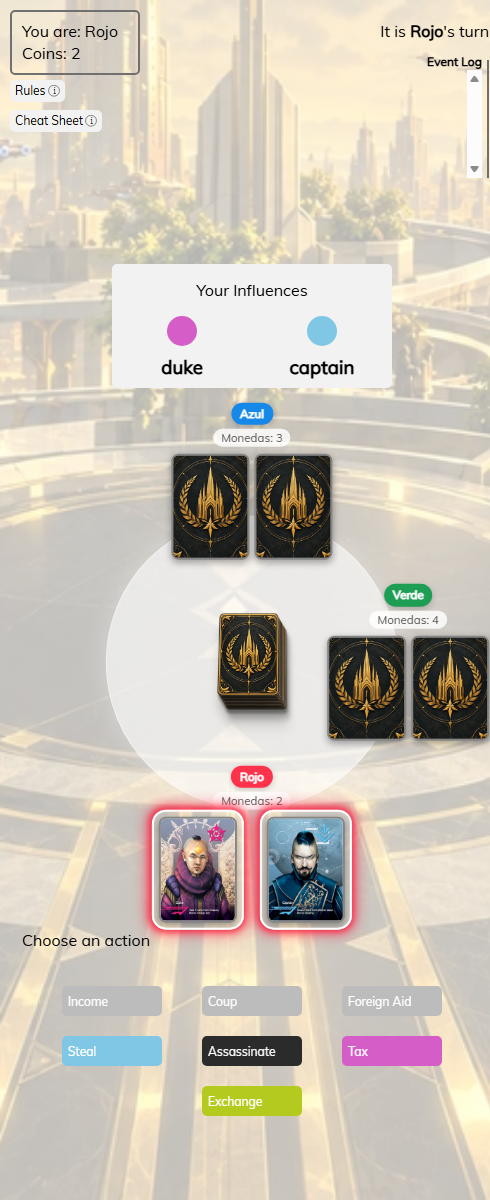
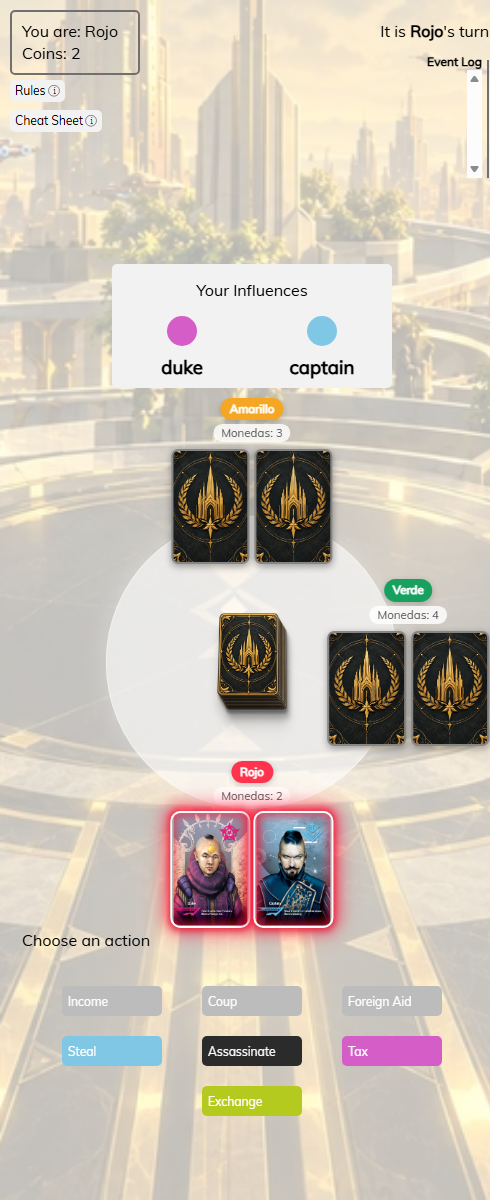
feat: refine current-turn card glow

Changed region(s): [[0.2755, 0.4625, 1.0, 0.8017], [0.3367, 0.3083, 0.6735, 0.4933]]

diff --git a/coup-client/src/components/game/PlayerBoardStyles.css b/coup-client/src/components/game/PlayerBoardStyles.css
@@ -103,7 +103,7 @@
 }
 
 .PlayerBoardSeat--current .PlayerBoardSeatInfluences {
-    gap: 30px;
+    gap: 5px;
 }
 
 .PlayerInfluenceSlot {
@@ -112,7 +112,7 @@
     flex: 0 0 auto;
     width: clamp(76px, 10.4vw, 134px);
     height: auto;
-    aspect-ratio: 0.74;
+    aspect-ratio: 0.68;
     box-sizing: border-box;
     align-items: center;
     justify-content: center;
@@ -161,16 +161,27 @@
     border-color: #858585;
 }
 
+.PlayerBoardSeat--current .PlayerInfluenceSlot:not(.PlayerInfluenceSlot--inactive)::before {
+    content: '';
+    position: absolute;
+    z-index: 1;
+    inset: 0;
+    border-radius: 5px;
+    box-shadow: inset 0 0 10px 2px rgba(255, 25, 48, 0.7);
+    pointer-events: none;
+}
+
 .PlayerBoardSeat--current .PlayerInfluenceSlot:not(.PlayerInfluenceSlot--inactive)::after {
     content: '';
     position: absolute;
-    z-index: 2;
-    inset: -9px;
+    z-index: 3;
+    inset: -3px;
     border: 2px solid rgba(255, 255, 255, 0.98);
-    border-radius: 14px;
+    border-radius: 10px;
     box-shadow:
-        0 0 6px 2px rgba(255, 35, 68, 0.88),
-        0 0 14px 5px rgba(255, 18, 55, 0.48);
+        0 0 6px 1px rgba(255, 35, 68, 0.9),
+        0 0 15px 4px rgba(255, 18, 55, 0.56),
+        0 0 25px 7px rgba(255, 18, 55, 0.22);
     pointer-events: none;
 }
 
@@ -209,5 +220,9 @@
 
     .PlayerBoardSeat[data-player-count="6"][data-seat-lower-side="true"] {
         translate: 0 -32px;
+    }
+
+    .PlayerBoardSeat[data-seat-upper-side="true"] {
+        translate: 0 -24px;
     }
 }

diff --git a/coup-client/src/components/game/PlayerBoard.js b/coup-client/src/components/game/PlayerBoard.js
@@ -107,6 +107,9 @@ export default function PlayerBoard(props) {
                     data-seat-lower-side={
                         seats.length >= 5 && top >= 60 && Math.abs(left - 50) >= 5 ? 'true' : undefined
                     }
+                    data-seat-upper-side={
+                        seats.length === 6 && top <= 40 && Math.abs(left - 50) >= 5 ? 'true' : undefined
+                    }
                     data-current-player={isCurrentPlayer ? 'true' : 'false'}
                     aria-current={isCurrentPlayer ? 'true' : undefined}
                     style={{

diff --git a/docs/plans/circular-board-visual-polish/report_issue_9_F1.md b/docs/plans/circular-board-visual-polish/report_issue_9_F1.md
@@ -6,8 +6,8 @@
 - El fondo usa `cover` centrado en una capa fija de viewport, sin deformación; la plataforma central del arte permanece reconocible y la imagen también aparece en las franjas superior e inferior de la página. Añadí un disco blanco translúcido centrado detrás del mazo.
 - Corrección de cartas solicitada para PR #10: quité el panel blanco exterior de cada asiento y dejé nombre/monedas en etiquetas compactas con color de jugador. Las influencias miden hasta 134 px de ancho en escritorio y usan `clamp(58px, 15.5vw, 82px)` en compacto (76 px a 490 px). El contorno neón sigue en las cartas del jugador actual.
 - Para pantallas compactas, los asientos próximos a los bordes desplazan sus cartas hacia adentro según su coordenada horizontal calculada; el cálculo base del círculo se conserva. Así se mantienen completas las cartas laterales en 3, 4, 5 y 6 jugadores.
-- Corrección de sombras para PR #10: cada `.PlayerInfluenceSlot` tiene una sombra negra corta y discreta; el mazo usa varias capas `drop-shadow` para sugerir una pila física. El jugador actual recibe un `::after` externo: contorno blanco de 2 px, unos 9 px de aire hasta la carta y halo rojo suave fuera del contorno. La sombra negra de carta/mazo no comparte la capa del neón.
-- Para evitar recortes laterales compactos y resolver la proximidad en 6p, el CSS ajusta asientos por borde y eleva 20 px los inferiores de 5p y 32 px los de 6p. No se cambiaron colores, tamaños de cartas, reglas, socket ni paneles. No versioné el PNG fuente.
+- Corrección actual de PR #10: cada `.PlayerInfluenceSlot` conserva sombra negra discreta y el mazo su sombra por capas. Solo las cartas del asiento activo reciben `::before` con iluminación roja interior y `::after` con borde blanco de 2 px a unos 3 px de la carta, halo rojo exterior multicapa y esquinas redondeadas. El gap entre cartas activas vuelve a 5 px para que los aros se unan visualmente. El estado del asiento activo sigue el `currentPlayer` que recibe `PlayerBoard`.
+- Las cartas mantienen su ancho y se hacen cerca de 8.8% más altas mediante `aspect-ratio: 0.68`. Para despejar las etiquetas en 6p compacto, los laterales superiores suben 24 px; los inferiores conservan el desplazamiento de 32 px y el margen cercano a 8 px con la mano activa. Las reglas, el socket, los paneles, tamaños de ancho y sombras negras no cambian. No versioné el PNG fuente.
 
 ## Evidencia visual
 
@@ -21,13 +21,14 @@ Capturas de navegador con `PlayerBoard` real, fixtures locales de 2–6 jugadore
 | 5 | [preview](preview_issue_9_F1_5p_desktop.png) | [preview](preview_issue_9_F1_5p_mobile.png) |
 | 6 | [preview](preview_issue_9_F1_6p_desktop.png) | [preview](preview_issue_9_F1_6p_mobile.png) |
 
-Revisé la composición, en especial 3 y 6 jugadores en escritorio y compacto. El aro activo conserva una franja de aire visible con la imagen de la carta; los halos de las dos cartas activas no se fusionan. En 6p compacto, elevar 32 px los dos asientos laterales inferiores deja un espacio visible de alrededor de 10 px entre sus cartas y las activas. La ampliación del margen lateral evita recortes también en 5p compacto. Se revisaron los diez previews finales. Sombras, mazo, disco, nombres, monedas y controles permanecen legibles. La simulación usa `Coup`/`ActionDecision` reales con fixtures deterministas y socket sin red; no usa partida/socket real ni se hicieron clics en acciones.
+Se regeneró la matriz completa de diez previews (2–6 jugadores, escritorio/compacto). Revisé 2p compacto, 3p escritorio, 5p compacto y 6p compacto: los aros de las dos cartas activas se unen sin perder el borde blanco, el glow rojo ilumina ambos lados del borde y 6p compacto no cruza etiquetas ni cartas; conserva unos 8 px entre manos laterales inferiores y mano activa. También se cambió el fixture a `?current=Amarillo` en 2p y el aro se movió a su mano, confirmando que sigue el `currentPlayer` que informa Coup.
 
 ## Validación
 
 - `npm ci`: completó para instalar las dependencias del worktree.
-- `npm run start-pc`: compiló el cliente con el fixture y volvió a compilar tras restaurar `App.js`. El harness fue temporal y no forma parte del diff. Quedaron advertencias ESLint existentes en `App.js` (`logo`, `Link`) y `Coup.js` (`ReactModal` sin uso).
+- `npm run start-pc`: compiló el cliente con el fixture temporal. Restauré `App.js` antes del commit.
+- `npm run build`: compiló el cliente después de restaurar `App.js`; quedaron advertencias ESLint existentes en `Coup.js` (`ReactModal` sin uso) y de Browserslist desactualizado.
 - `git diff --check`: pasó.
-- No ejecuté tests automatizados ni build de producción, de acuerdo con el alcance.
+- No ejecuté tests automatizados.
 
 F1 queda cerrada y se entrega al Orquestador. La corrección de viewport se preparó como commit adicional en la misma rama y PR #10; issue abierta y sin merge.

diff --git a/docs/plans/circular-board-visual-polish/plan_circular_board_visual_polish.md b/docs/plans/circular-board-visual-polish/plan_circular_board_visual_polish.md
@@ -34,10 +34,10 @@ En el checkout local, el archivo de fondo disponible se llama `fotos/backgrond.p
 1. `background.webp` mide como máximo 1024 px de ancho, conserva proporción/transparencia y es el único asset nuevo; el PNG local no aparece en el diff.
 2. El fondo cubre la página/viewport completa, se muestra centrado sin deformarse y tiene opacidad efectiva aproximada de 30% sobre blanco; la plataforma circular central sigue reconocible como paisaje.
 3. El disco central es claramente circular, traslúcido, está centrado detrás del mazo y no altera su tamaño ni interacción.
-4. Las cartas de jugador se perciben grandes (hasta 134 px de ancho en escritorio; `clamp(58px, 15.5vw, 82px)` en compacto), sin caja blanca exterior ni recortes laterales para 2–6 jugadores. Las etiquetas conservan nombre, monedas y color.
+4. Las cartas de jugador se perciben grandes (hasta 134 px de ancho en escritorio; `clamp(58px, 15.5vw, 82px)` en compacto), son cerca de 8.8% más altas al conservar su ancho, sin caja blanca exterior ni recortes laterales para 2–6 jugadores. Las etiquetas conservan nombre, monedas y color.
 5. Se mantienen visibles los colores y el contorno neón del turno, cartas propias/rivales, y estados de influencia perdida/eliminación.
 6. Previews de escritorio y ancho compacto permiten comparar la composición con las referencias; el navegador compila el cliente sin errores.
-7. Cada carta y el mazo tienen una sombra negra sutil e independiente; el turno activo tiene un contorno blanco separado unos 9 px de la carta y un halo rojo exterior.
+7. Cada carta y el mazo tienen una sombra negra sutil e independiente; únicamente las cartas del asiento activo tienen un aro blanco de 2 px a unos 3 px de la carta, con glow rojo realista hacia adentro y hacia afuera. El aro debe seguir los cambios de `currentPlayer`.
 
 ## Ejecución y cierre
 
@@ -50,6 +50,7 @@ Una fase `F1 — Integrar fondo, centro y escala de cartas`. Pregunta: ¿el tabl
 - 2026-09-25 21:40 -06:00: Corrección solicitada tras revisión: el fondo pasó de una capa absoluta dentro del tablero cuadrado a cubrir todo el viewport desde `.GameContainer::before`; ahora usa `cover` centrado, capa blanca CSS de 0.70 y opacidad efectiva aproximada de imagen 0.30. Se renovaron las diez capturas 2–6 jugadores × escritorio/compacto y se inspeccionó la cobertura de las franjas de página. PR #10 permanece abierto y sin merge.
 - 2026-09-26 05:06 -06:00: Nueva corrección de PR #10: se quitó la caja blanca exterior de los asientos; las cartas crecieron a 134px máximo en escritorio y 58–82px en compacto, con etiquetas de jugador en color. Se detectaron recortes compactos en los asientos próximos al borde para 3–5; `PlayerBoard.js` expone el borde derivado de la coordenada calculada y CSS compensa hacia adentro en <=520px, sin depender del índice ni alterar el cálculo base del círculo. Se regeneraron las 10 capturas; se revisaron 3p/6p escritorio y 3–6 compacto, con pares completos y sin solapamientos. Harness temporal de `App.js` restaurado; `start-pc` compiló antes y después, con advertencias ESLint existentes. `git diff --check` pasó. PR #10 sigue abierta, sin merge.
 - 2026-09-26 06:58 -06:00: Revisión final de PR #10: el aro blanco se separó aproximadamente 9 px de la carta y conserva el halo rojo suave por fuera. En 6p compacto, los dos asientos inferiores subieron 32 px; en 5p se ajustó el margen lateral para evitar recortes. Se generó y revisó la matriz de 10 previews 2–6p escritorio/compacto, con inspección puntual de 3p y 6p; no se observan cruces entre cartas activas y laterales en 6p compacto. Harness temporal de `App.js` restaurado. El cliente compiló con advertencias ESLint existentes; no se ejecutaron tests automatizados. `git diff --check` pasó.
+- 2026-09-26 13:18 -06:00: Nueva iteración de PR #10: aro activo a -3 px con borde blanco 2 px, glow rojo interior/exterior y gap de cartas de 5 px; altura incrementada 8.8% conservando ancho. En 6p compacto se subieron 24 px los laterales superiores para separar etiquetas y se mantuvieron arriba 32 px los inferiores para conservar ~8 px con la mano activa. Se regeneró la matriz de 10 capturas y se revisó 2p compacto, 3p escritorio, 5p compacto y 6p compacto. Se probó `?current=Amarillo` en 2p: el resalte se trasladó a su mano. Harness de `App.js` restaurado; build y diff-check pasaron; no se ejecutaron tests.
 
 **Validación mínima:** inspección visual de previews y compilación local del cliente. No agregar ni ejecutar tests automatizados para este cambio visual.
 
